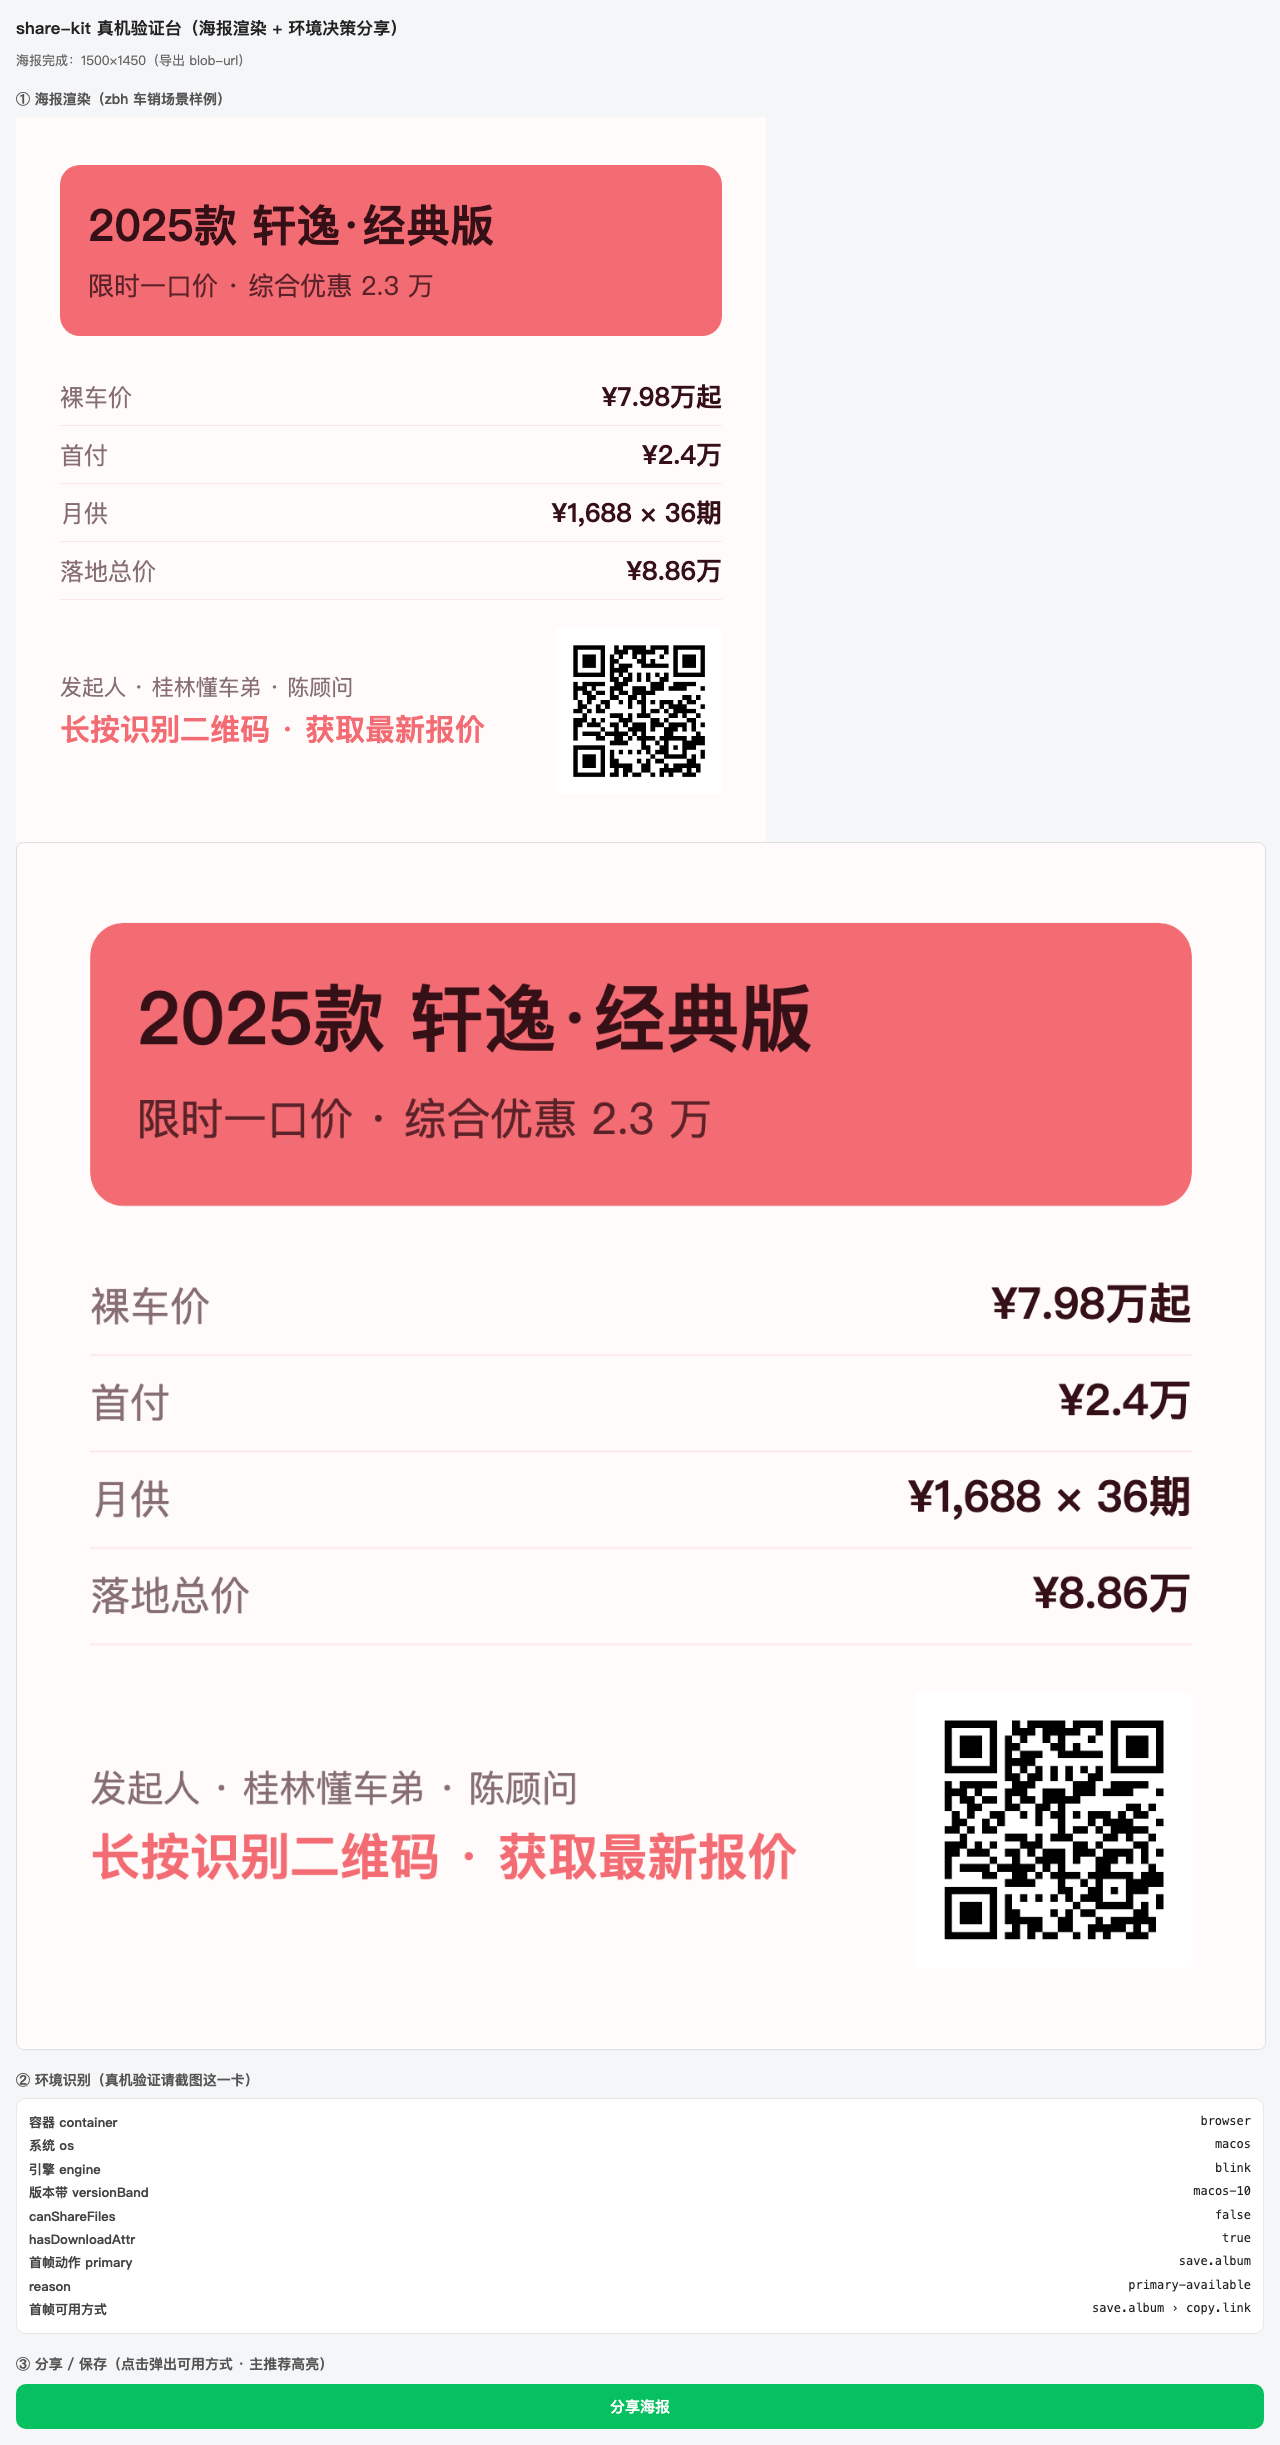
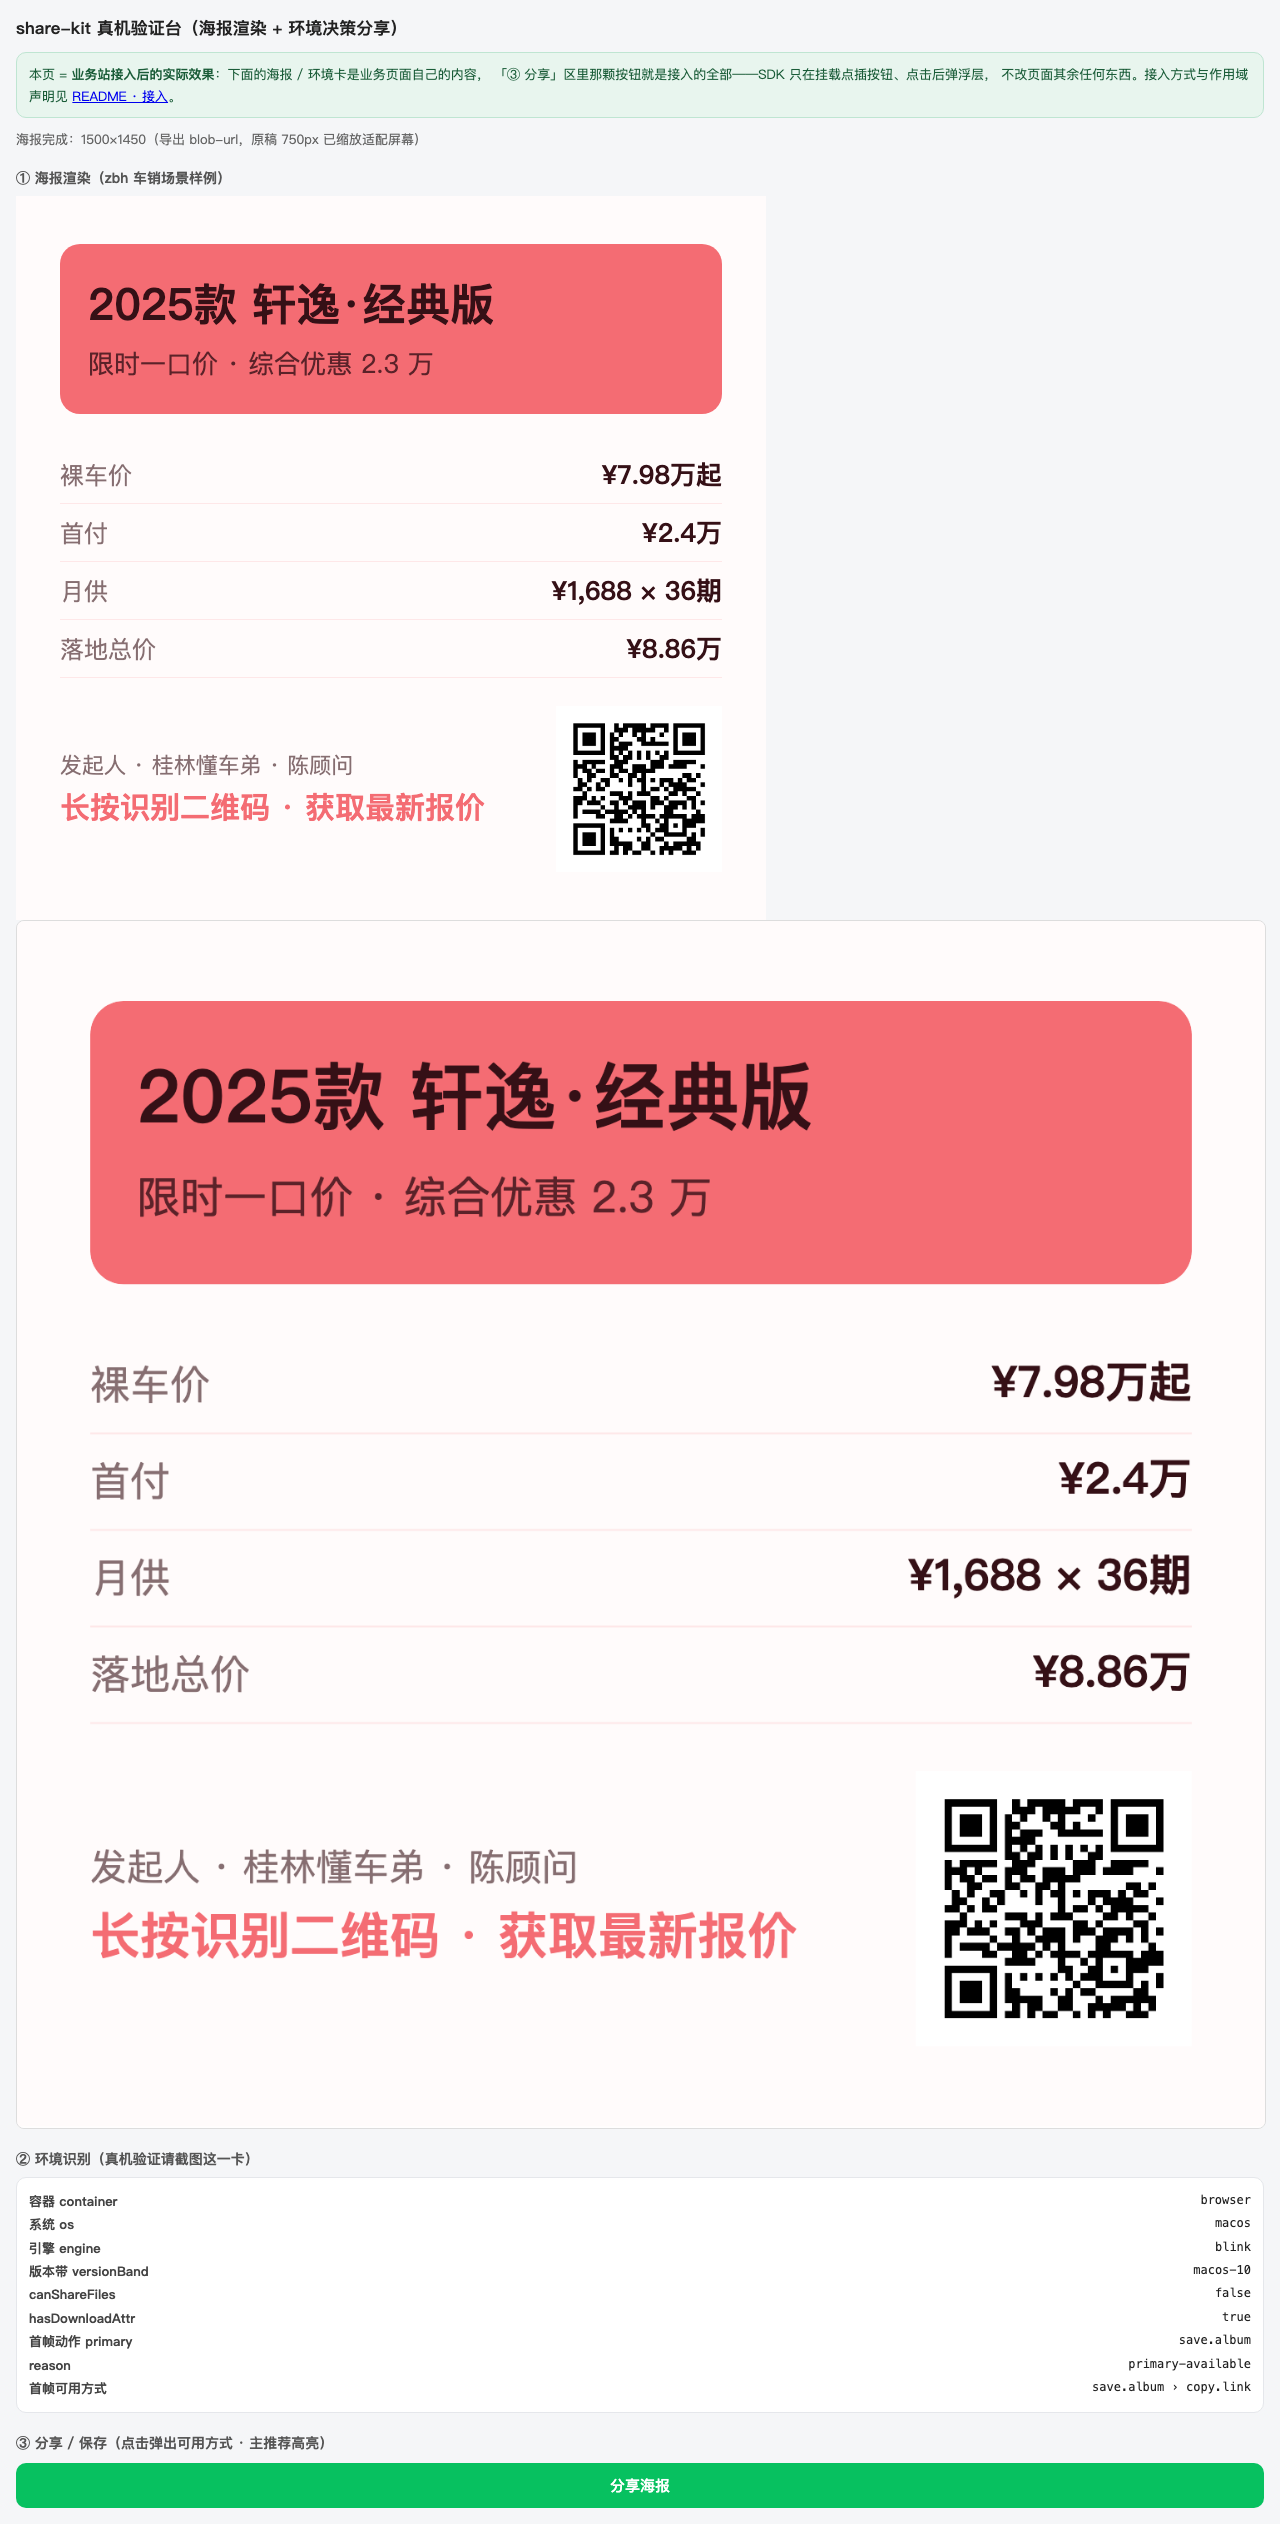
feat(ui): 微信内直出长按引导层 + 海报一屏全貌 + 接入作用域声明（出资人三问修正）
- 微信内点分享不再经 sheet 中转：主推荐为 preview.longpress（引导型）时直接弹
  大图长按引导层，层内保留「复制链接」次要方式；sheet 项名「查看大图」→「长按保存海报」
- demo 海报 750px 原稿 capture 后等比缩到容器宽（一屏看全貌，不影响渲染铁律与
  码区比例断言——比例计算在 scaled 空间自适应）
- README 接入章节按业界 SDK 文档范式重写：作用域声明表（挂载/点击/执行/卸载四个
  时机，页面发生什么 × 明确不发生什么）+ Use Cases 场景表（谁在什么页面接什么
  artifact，微信内/浏览器各自看到什么）；demo 页顶同步标注「本页=接入后效果」
- spec 红线 2 补充直出规则；线上七组 UA 验收 71/71

diff --git a/demo/index.html b/demo/index.html
@@ -8,7 +8,9 @@
     body { font-family: -apple-system, 'PingFang SC', sans-serif; margin: 16px; background: #f5f6f8; color: #222; }
     h1 { font-size: 17px; }
     h2 { font-size: 14px; margin: 20px 0 8px; color: #555; }
-    #poster-host { width: 750px; max-width: 100%; overflow-x: auto; }
+    .intro { background: #e8f5ee; border: 1px solid #bfe5d2; border-radius: 10px; padding: 10px 12px; font-size: 13px; line-height: 1.7; color: #1a5c38; margin: 12px 0; }
+    /* 海报原稿 750px，capture 完成后 JS 等比缩到容器宽（一屏看全貌） */
+    #poster-host { width: 100%; overflow: hidden; }
     #result { max-width: 100%; border: 1px solid #ddd; border-radius: 8px; display: none; }
     #status { color: #666; font-size: 13px; margin: 10px 0; }
     .card { background: #fff; border: 1px solid #e5e7eb; border-radius: 10px; padding: 12px; font-size: 13px; line-height: 1.8; }
@@ -21,6 +23,11 @@
 </head>
 <body>
   <h1>share-kit 真机验证台（海报渲染 + 环境决策分享）</h1>
+  <div class="intro">
+    本页 = <b>业务站接入后的实际效果</b>：下面的海报 / 环境卡是业务页面自己的内容，
+    「③ 分享」区里那颗按钮就是接入的全部——SDK 只在挂载点插按钮、点击后弹浮层，
+    不改页面其余任何东西。接入方式与作用域声明见 <a href="https://github.com/everythingIsZero/share-kit#接入">README · 接入</a>。
+  </div>
   <div id="status">正在生成海报…</div>
 
   <!-- ① 海报区：posterHtml 注入，capture 抓取（Playwright 验收锚点，勿改名） -->
@@ -98,6 +105,18 @@
     }
 
     // ── 海报渲染链 ──────────────────────────────────────────────────────
+    // 海报 750px 原稿缩到容器宽（一屏看全貌）；缩放发生在 capture 之后，不影响渲染铁律
+    function fitPoster() {
+      const host = document.getElementById('poster-host')
+      const poster = host.firstElementChild
+      if (!poster) return
+      const scale = Math.min(1, host.clientWidth / poster.offsetWidth)
+      poster.style.transformOrigin = 'top left'
+      poster.style.transform = scale < 1 ? `scale(${scale})` : ''
+      host.style.height = scale < 1 ? `${Math.round(poster.offsetHeight * scale)}px` : ''
+    }
+    window.addEventListener('resize', fitPoster)
+
     async function render() {
       const spec = resolveSpec(input)
       const qrSrc = await qrDataUrl(spec.qr)
@@ -115,7 +134,8 @@
       const img = document.getElementById('result')
       img.src = exported.url
       img.style.display = 'block'
-      status.textContent = `海报完成：${canvas.width}×${canvas.height}（导出 ${exported.kind}）`
+      status.textContent = `海报完成：${canvas.width}×${canvas.height}（导出 ${exported.kind}，原稿 750px 已缩放适配屏幕）`
+      fitPoster()
 
       // 产物就绪后挂载 Action Sheet 形态分享（按钮 + sheet + 长按引导层 + 执行全在 SDK 内）
       window.__share = mountShare(document.getElementById('share-slot'), {

diff --git a/README.md b/README.md
@@ -76,7 +76,32 @@ bun add github:everythingIsZero/share-kit
 | `mountShare(target, { artifact, labels?, onResult? })` | 挂载分享按钮 + Action Sheet + 长按引导层 + 执行 + 反馈，返回 `{ unmount }` |
 | `SHEET_LABELS` / `sheetItemsOf` / `buttonLabelOf` / `sheetTitleOf` | Action Sheet 视图模型（纯函数，自定义 UI 时可复用） |
 
-## 接入四步（与 demo/index.html 实际调用一致）
+## 接入
+
+### 先说清楚：SDK 会动你页面的哪里（作用域声明）
+
+接入的全部影响范围如下表——**除挂载点内部与触发后的浮层外，你的页面不会有任何变化**：
+
+| 时机 | 你的页面发生什么 | 明确不会发生什么 |
+|---|---|---|
+| 调用 `mountShare`（挂载） | ① 挂载点 `target` 末尾插入 1 个分享按钮（`button.share-kit-trigger`）；② `head` 插入 1 份样式表（id=`share-kit-ui-style`，幂等，全页仅一份） | 不改页面任何已有 DOM 与样式；不挂 `window` 全局变量；不监听全局事件 |
+| 用户点击分享按钮 | 按环境走最短路径：微信内**直接弹大图长按引导层**；有多个可用方式弹底部 Action Sheet；仅剩唯一方式不弹直接执行。浮层插在 `body` 末尾（fixed + 高 z-index），关闭后约 260ms 自动从 DOM 移除 | 不跳页不刷新；浮层用的图是你传入的本地 blob，不发网络请求 |
+| 用户选定方式后 | 按方式执行：系统分享面板 / `a[download]` 下载 / 剪贴板复制（失败自动落 execCommand）；结果反馈写在**按钮文案**上 | 不用 toast 弹窗；SDK 不发任何统计请求（埋点走你传入的 `onResult`） |
+| `unmount()`（卸载） | 按钮移除、事件解绑、浮层收起 | 页面其余部分与你接入前完全一致 |
+
+海报生成与 SDK 的边界：**SDK 不管海报怎么来**——你的页面用 `render-dom`（或任何方式）产出
+blob / File，填进 `artifact`。`artifact` 是执行时取值的引用：可以先挂载（页面加载即有按钮），
+产物就绪后再补 `files` / `imageUrl`。
+
+### 谁在什么场景接（Use Cases）
+
+| 你的页面 | artifact 传什么 | 微信内用户看到 | 浏览器用户看到 |
+|---|---|---|---|
+| 车型报价 / 商品页（分享海报） | `kind:'image'` + `files:[海报File]` + `imageUrl` | 点「分享海报」→ 直接弹大图 → 长按保存（「复制链接」在层内） | 点「分享海报」→ 弹方式列表：系统分享 / 长按保存海报 / 复制链接 |
+| 内容页（文章 / 攻略，分享链接） | `kind:'link'` + `url` | 弹方式列表：分享到微信（卡片）/ 复制链接 | 系统分享链接 / 复制链接 |
+| 视频页 | `kind:'video'` + `files:[视频File]` | 微信内视频无前端保存路径 → 复制链接 | 系统分享 / 保存 |
+
+### 接入代码（与 demo/index.html 实际调用一致）
 
 ```js
 import { resolveSpec } from 'share-kit/poster'                                  // poster
@@ -90,8 +115,7 @@ host.innerHTML = posterHtml(spec, { qrDataUrl: qrSrc })
 const canvas = await capture(host.firstElementChild)
 const exported = await exportPng(canvas)
 
-// 2. 挂载分享：把「想分享的东西」交给 mountShare，按钮 + Action Sheet + 执行 + 反馈全在 SDK 内
-//    （artifact 是执行时取值的可变引用：先挂载、渲染完成后再补 files / imageUrl 即可）
+// 2. 挂载分享：你的页面从此只多一个按钮（+点击后的浮层），其余零影响
 const artifact = { kind: 'image', url: pageUrl, title: '…', text: '…' }
 mountShare(document.getElementById('share-slot'), {
   artifact,

diff --git a/docs/specs/2026-10-05-share-kit.md b/docs/specs/2026-10-05-share-kit.md
@@ -67,7 +67,7 @@ POST /api/shares        → 业务方注册分享（secret 鉴权，同 sso-brid
 ## 不变量
 
 - core 零宿主依赖（node:test 全覆盖）；加环境只加能力表行，不加 if。
-- 点击弹出 Action Sheet：列出该环境真实可用的方式（能力表 + 运行时信号双重过滤，绝不列会失败的项），偏好序第一项高亮为主推荐；唯一可用动作时不弹直接执行；copy.link 恒可作为次要项。执行在手势同步段发起（R14，先 await 会烧掉用户激活）。
+- 点击弹出 Action Sheet：列出该环境真实可用的方式（能力表 + 运行时信号双重过滤，绝不列会失败的项），偏好序第一项高亮为主推荐；唯一可用动作时不弹直接执行；主推荐为引导型动作（preview.longpress）时同样不弹列表、直接弹长按引导层（层内保留次要方式），sheet 中转反而多一步；copy.link 恒可作为次要项。执行在手势同步段发起（R14，先 await 会烧掉用户激活）。
 - 未实测能力格不给强引导（R16）；`available: null` 不冒充已知。
 - UA 原文与身份字段不进上报事件；取消与失败分开归因。
 - 海报渲染前冻结数据快照（防幽灵数据）。
